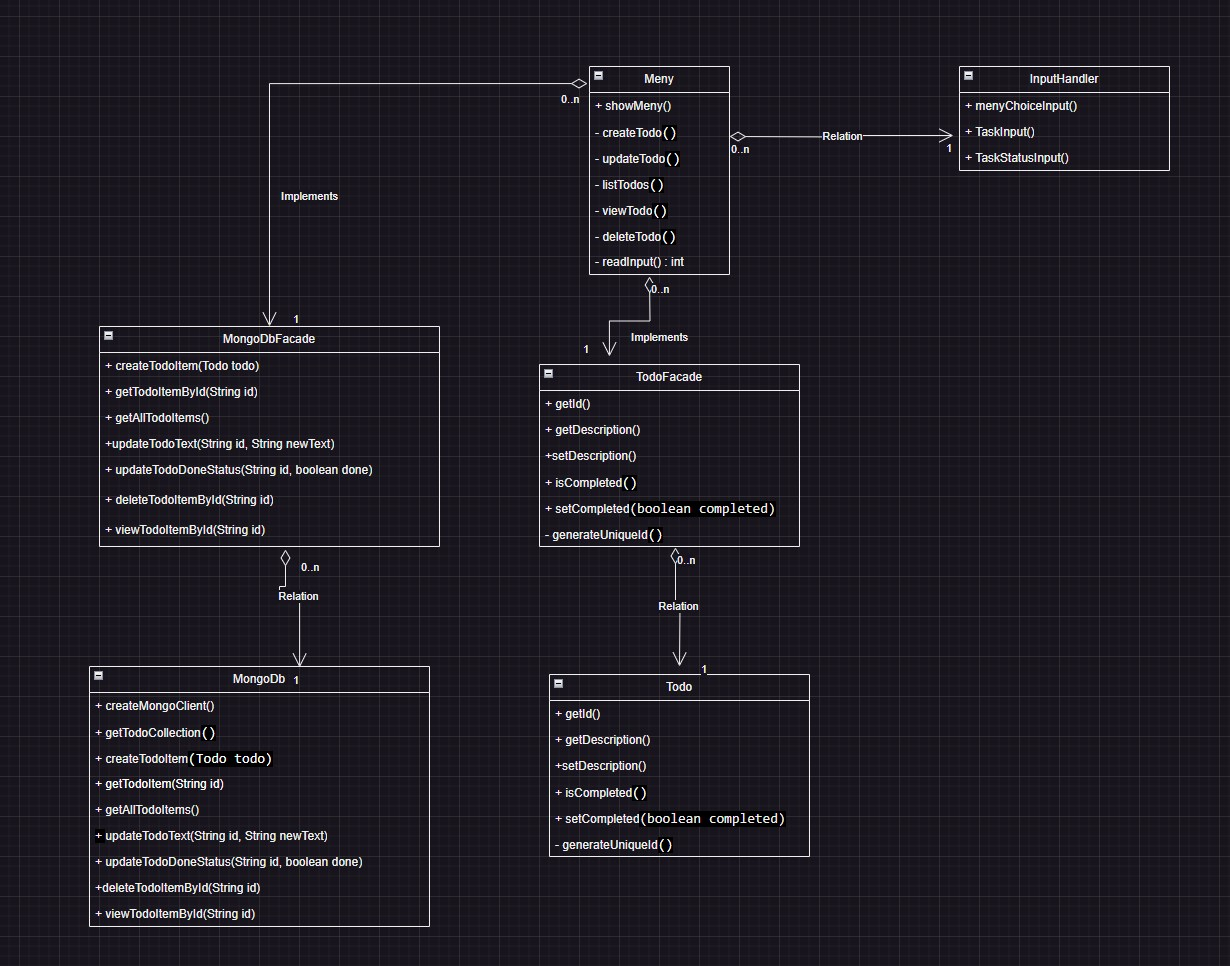
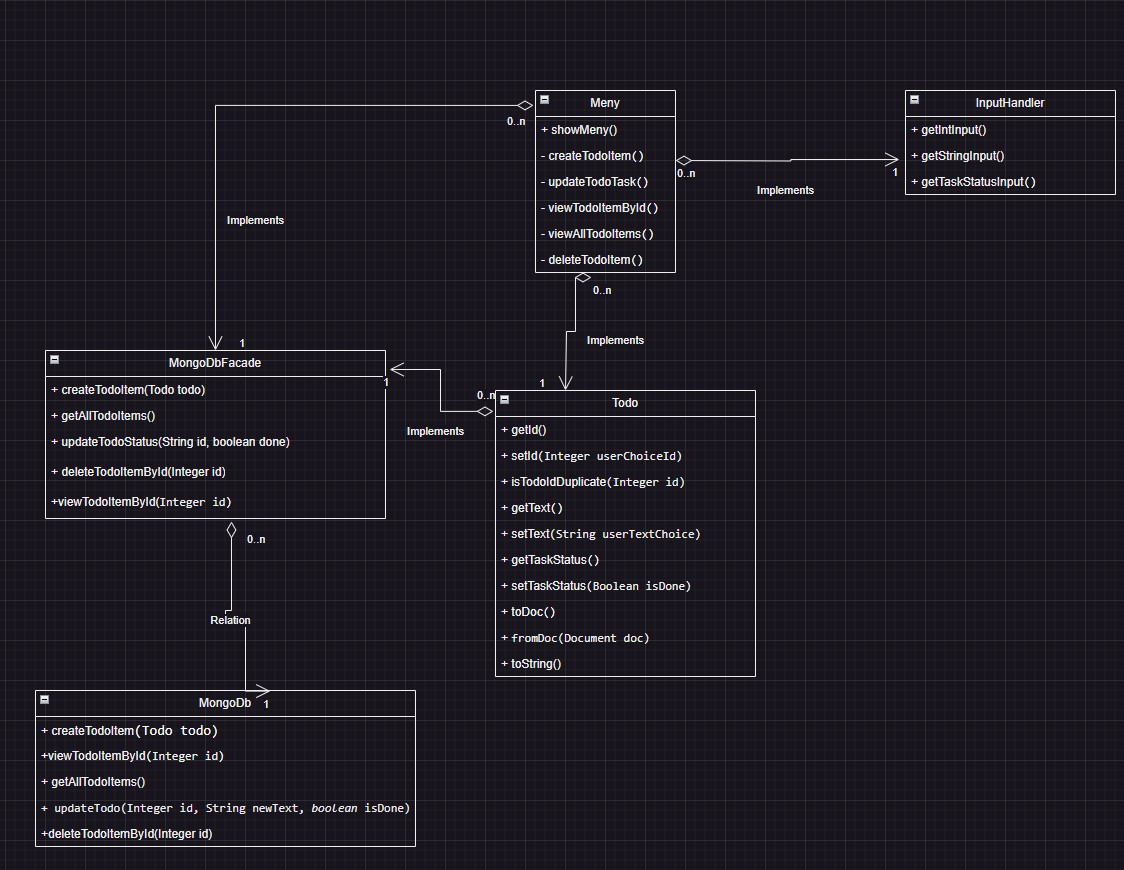
Fixade kommentarer och bilder

diff --git a/TDDproject/main/java/org/campusmolndal/TodoList/Todo.java b/TDDproject/main/java/org/campusmolndal/TodoList/Todo.java
@@ -27,7 +27,7 @@ public class Todo {
         }
         this.id = userChoiceId;
     }
-    public static boolean isTodoIdDuplicate(int id) {
+    public static boolean isTodoIdDuplicate(Integer id) {
         return id > 0;
     }
 
@@ -37,12 +37,12 @@ public class Todo {
     }
 
     // Sätter titeln för uppgiften
-    public void setTitle(String userTitleChoice) {
-        Objects.requireNonNull(userTitleChoice, "Title cannot be null");
-        if (userTitleChoice.isBlank()) {
+    public void setText(String userTextChoice) {
+        Objects.requireNonNull(userTextChoice, "Title cannot be null");
+        if (userTextChoice.isBlank()) { // om titeln är tom så kastas ett undantag
             throw new IllegalArgumentException("Title cannot be empty");
         }
-        this.text = userTitleChoice;
+        this.text = userTextChoice;
     }
 
     // Hämtar statusen för uppgiften

diff --git a/TDDproject/src/test/java/org/TodoListTest/TodoTest.java b/TDDproject/src/test/java/org/TodoListTest/TodoTest.java
@@ -58,7 +58,7 @@ public class TodoTest {
         Todo todo = new Todo(1, "Sample Title", false);
 
         // Sätter en ny titel med setTitle-metoden och kontrollerar att den nya titeln är korrekt
-        todo.setTitle(newTitle);
+        todo.setText(newTitle);
 
         assertEquals(newTitle, todo.getText());
     }
